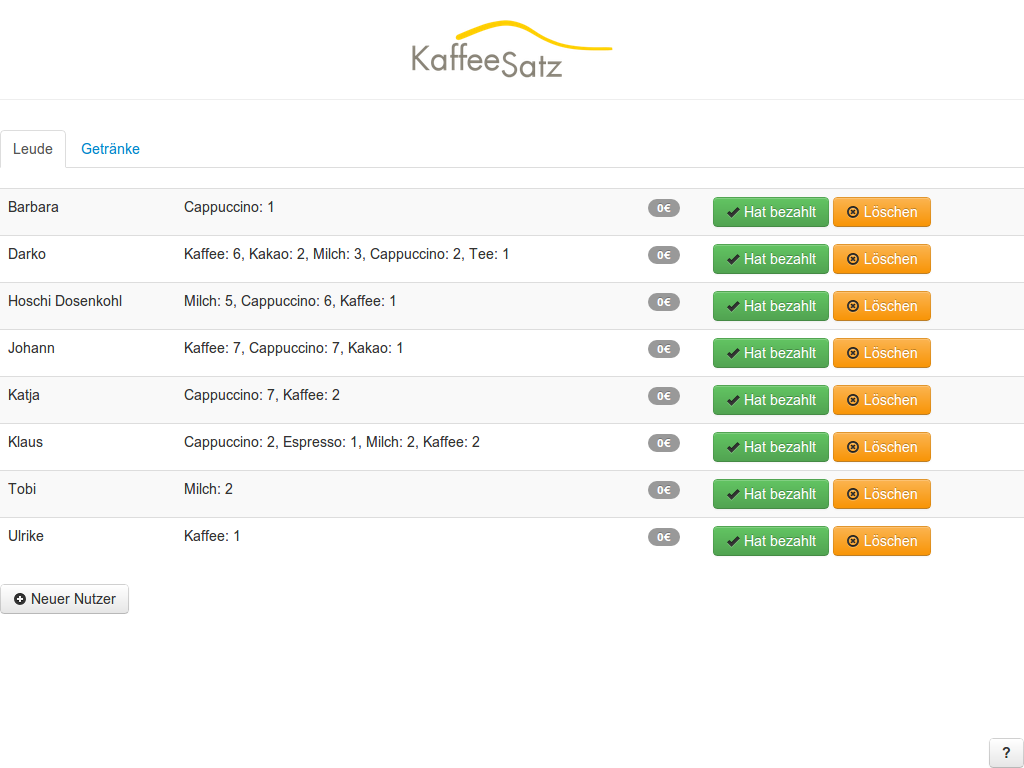
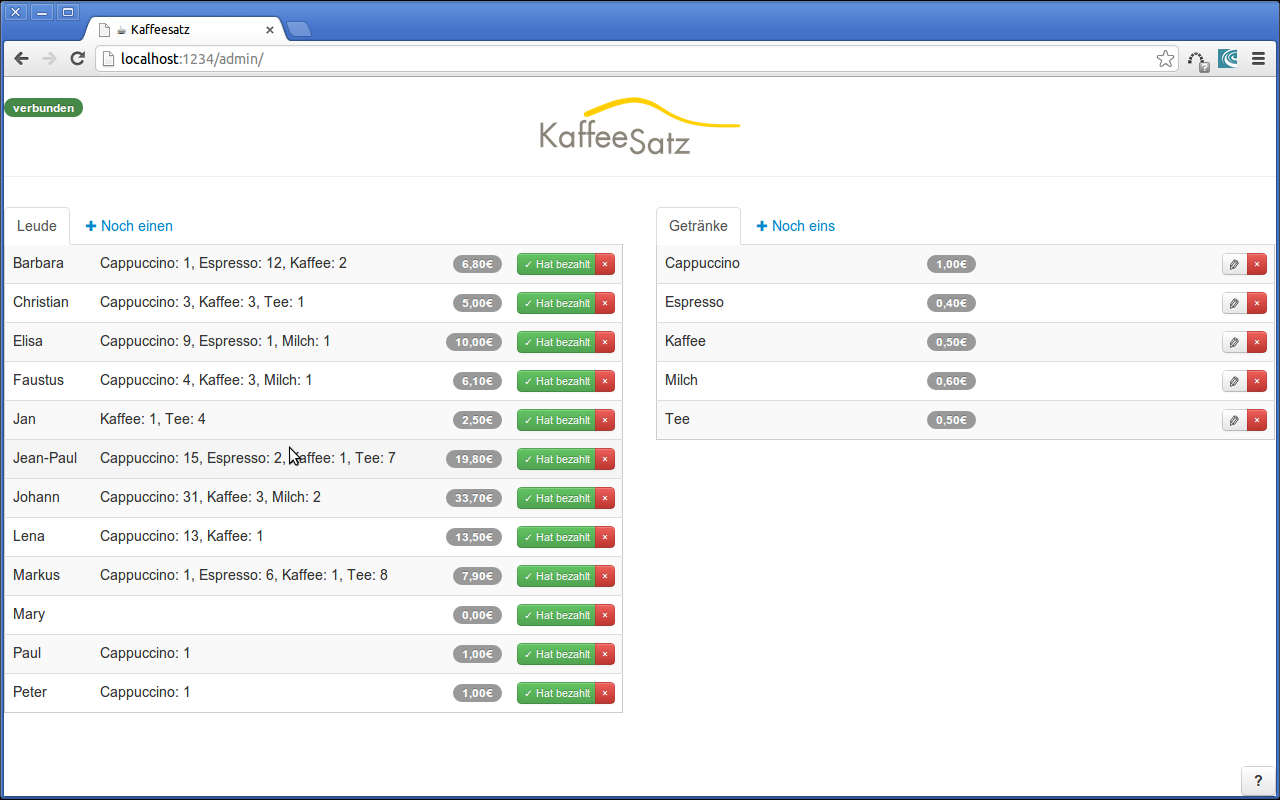
Rewrite product page

Changed region(s): [[0.0, 0.0, 1.0, 1.0], [0.1875, 0.25, 0.25, 0.2812]]

diff --git a/index.html b/index.html
@@ -5,9 +5,8 @@
 		<title>Kaffeesatz by Satzmedia</title>
 
 		<link rel="stylesheet" href="stylesheets/styles.css">
-		<link rel="stylesheet" href="stylesheets/pygment_trac.css">
 		<script src="javascripts/scale.fix.js"></script>
-		<meta name="viewport" content="width=device-width, initial-scale=1, user-scalable=no">
+		<meta name="viewport" content="width=device-width, initial-scale=1">
 		<!--[if lt IE 9]>
 			<script src="//html5shiv.googlecode.com/svn/trunk/html5.js"></script>
 		<![endif]-->
@@ -29,11 +28,19 @@
 			</header>
 
 			<section>
+				<h2>Kaffeesatz - Eine Kaffeeliste mit Stil</h2>
+				<p>Ein weiteres Spaßprojekt für alle, die Kaffeestrichlisten (oder jede andere Art von Strichliste) führen und verwalten. Erspart den Kontakt mit Zetteln, Stiften und Kopfrechnen.</p>
+
+				<h2>Der Server</h2>
+				<p>Ein <a href="http://nodejs.org/">Nodejs</a>-Server mit <a href="http://www.mongodb.org/">MongoDB</a> bildet das Rückrad der Anwendung. Der Server stellt eine (HTTP-)REST-API zur Verfügung und spaßeshalber zusätzlich eine Websocket-API. Er liefert auch die Kaffeeliste und die Administrationsoberfläche aus und verwaltet Zugriffsrechte.</p>
+
 				<h2>Die App</h2>
-				<img src="images/app.png" alt="Satzmedia" style="width: 100%">
+				<p>Eine mobile App mit der sich Striche tatschen statt malen lassen. Aktualisiert sich selbst und ist installierbar auf iOS und Firefox.</p>
+				<img src="images/app.png" alt="">
 
 				<h2>Die Administration</h2>
-				<img src="images/admin.png" alt="Satzmedia" style="width: 100%">
+				<p>Eine einfach zu bedienende Oberfläche erlaubt jederzeitiges Abrechnen, Verwalten von Nutzern und Getränken sowie clevere nachträgliche Preissteigerungen.</p>
+				<img src="images/admin.png" alt="">
 			</section>
 			<footer>
 				<p>Ein Projekt von <a class="header name" href="https://github.com/Satzmedia"><img src="images/satzmedia.png" alt="Satzmedia"></a>.</p>

diff --git a/stylesheets/styles.css b/stylesheets/styles.css
@@ -138,15 +138,11 @@ hr {
   margin:0 0 24px;
 }
 
-/* Images *
+/* Images */
 
 img {
-  position: relative;
-  margin: 0 auto;
-  max-width: 650px;
-  padding: 5px;
-  margin: 10px 0 32px 0;
-  border: 1px solid #ccc;
+	margin: 0 auto;
+	max-width: 100%
 }
 
 
@@ -196,20 +192,14 @@ td {
  }
 
 
-/* Wrapper */
-.wrapper {
-  width:960px;
-}
-
-
 /* Header */
 
 header {
 	background-color: #171717;
 	color: #FDFDFB;
-  width:170px;
-  float:left;
-  position:fixed;
+	width:170px;
+	float:left;
+	position:fixed;
 	border: 1px solid #000;
 	-webkit-border-top-right-radius: 4px;
 	-webkit-border-bottom-right-radius: 4px;
@@ -317,9 +307,9 @@ header li a img{
 /* Section - for main page content */
 
 section {
-  width:650px;
-  float:right;
-  padding-bottom:50px;
+	padding-left:300px;
+	float: left;
+	padding-bottom:50px;
 }
 
 
@@ -347,7 +337,6 @@ footer {
   }
 
 	footer {
-		border-top: 1px solid #ccc;
 		margin:0 84px 0 50px;
 		padding:0;
 	}
